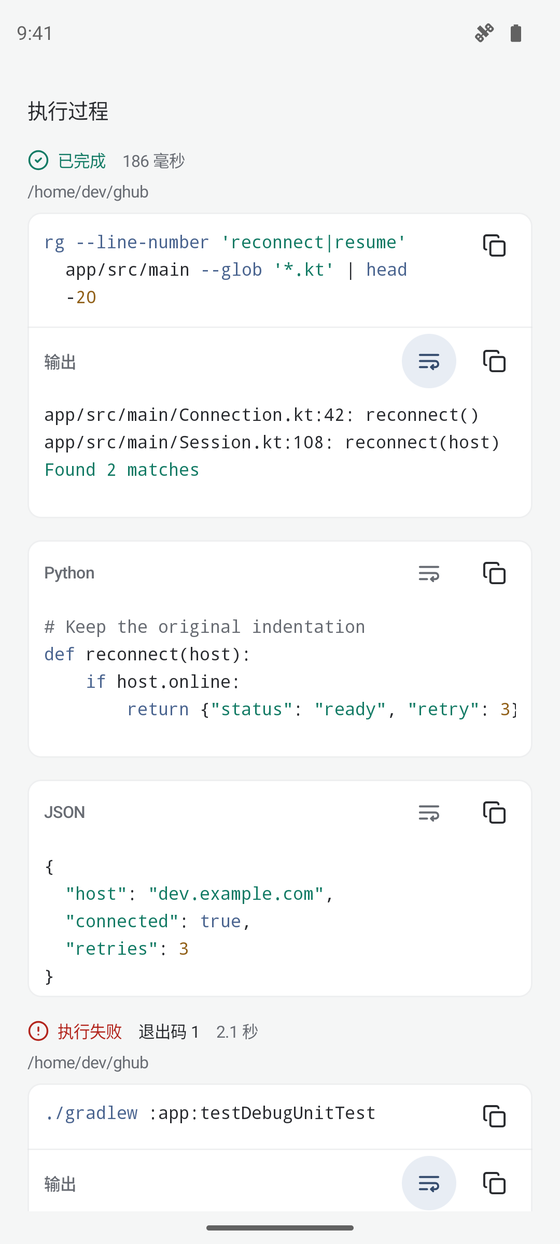
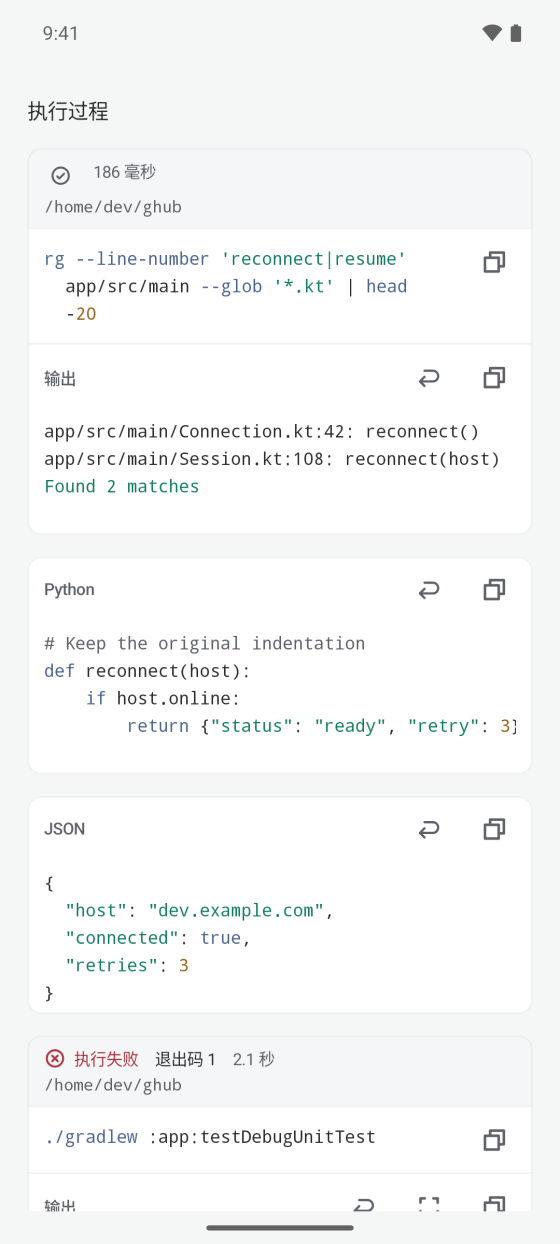
Refresh README features and previews for 0.1.63

diff --git a/README.md b/README.md
@@ -14,27 +14,24 @@ GHub 通过 SSH 连接 Linux 开发机，让你在手机上查看会话、发送
 
 ## 功能
 
-- **会话工作台**：按服务器和项目组织会话，支持新建、归档、历史记录、模型与思考级别选择。
-- **任务与审批**：接收流式回复，查看执行过程、命令输出和文件改动，在手机上回答交互提问、处理命令与文件审批；待处理请求滚出视野时提供查看入口。后台时任务完成、失败、待审批和待回答会发送系统通知，Android 12 及以上可解锁后直接处理通知审批，旧版 Android 打开应用确认。
-- **代码阅读**：Markdown、LaTeX 行内与独立公式、语法高亮、Diff、自动换行和全屏阅读，命令与输出可分别复制。
+- **会话工作台**：按服务器和项目组织会话，支持新建、归档、历史记录、模型与思考级别选择，以及计划模式（`/plan`）、远端会话目标（`/goal`）和沙箱/审批权限设置。
+- **任务与审批**：接收流式回复，查看执行过程、工具调用、命令输出和文件改动，在手机上回答交互提问、处理命令与文件审批；待处理请求滚出视野时提供查看入口。后台时任务完成、失败、待审批和待回答会发送系统通知，Android 12 及以上可解锁后直接处理通知审批，旧版 Android 打开应用确认。
+- **排队、引导与修改**：任务运行中可排队发送消息（支持官方队列与本地队列降级，可查看、编辑与删除），或向活动任务发送实时引导；最新任务确认停止后，可修改原输入并重新发送，保留原始记录和未发送草稿。
+- **代码阅读**：Markdown、LaTeX 行内与独立公式、语法高亮、Diff、自动换行和全屏阅读，命令、输出、代码、表格与公式均可复制。
 - **远程文件**：通过 SFTP 浏览、上传、下载、预览图片和编辑文本，保存时检查远端修改。
-- **交互终端**：支持 Vim、tmux、多个终端、组合键、双指缩放和横屏输入。
-- **连接与输入**：多级 SSH 跳板、密钥与密码认证、断线重连、本地草稿和图片附件。
-- **停止后修改**：最新任务确认停止后，可点击用户消息下方的铅笔，在底部输入框修改并重新发送，保留原始记录和未发送草稿。
-- **Android 原生界面**：Kotlin、Jetpack Compose、Material 3，支持中文、English 和深浅色主题。
+- **交互终端**：支持 Vim、tmux、多个终端、组合键与修饰键锁定、双指缩放和横屏输入。
+- **连接与输入**：多级 SSH 跳板、密钥与密码认证、断线重连与后台保持、本地草稿，以及图片、拍照和文件附件。
+- **Android 原生界面**：Kotlin、Jetpack Compose、Material 3，支持中文、English、深浅色主题和本地存储占用管理。
 
 ## 界面预览
 
 <p>
-  <img src="docs/images/code.png" alt="浅色主题下的紧凑命令块、输出与代码换行开关" width="280" />
-  <img src="docs/images/terminal.png" alt="深色主题下的交互终端与 ← ↑ ↓ → 方向键" width="280" />
+  <img src="docs/images/chat.png" alt="浅色主题下的会话对话、执行摘要、文件改动与底部输入框" width="260" />
+  <img src="docs/images/code.png" alt="浅色主题下的紧凑命令块、输出与代码换行开关" width="260" />
+  <img src="docs/images/terminal.png" alt="深色主题下的交互终端与 ← ↑ ↓ → 方向键" width="260" />
 </p>
 
-截图来自 v0.1.42 的离线组件预览，使用示例内容。
-
-<img src="docs/images/edit-input.png" alt="停止后修改输入：中英文均复用底部输入框和圆形发送箭头" width="720" />
-
-停止后编辑输入的中英文组件预览（v0.1.44），使用示例内容。
+截图来自 v0.1.63 的离线组件预览，使用示例内容。
 
 ## 快速开始
 

diff --git a/docs/images/README.md b/docs/images/README.md
@@ -1,9 +1,10 @@
 # 文档截图
 
-README 的截图来自 v0.1.42 的 Debug 离线预览，使用真实组件和示例内容。采集环境为 Android 15 / API 35、1080 × 2400、420 dpi、中文界面、默认字体倍率；保留完整屏幕比例，并缩小至 560px 宽：
+README 的截图来自 v0.1.63 的 Debug 离线预览，使用真实组件和示例内容。采集环境为 Android 15 / API 35、1080 × 2400、420 dpi、中文界面、默认字体倍率；保留完整屏幕比例，并缩小至 560px 宽：
 
 | 文件 | 预览参数 |
 |---|---|
+| `chat.png` | `--es screen chat --es theme light` |
 | `code.png` | `--es screen code --es theme light` |
 | `terminal.png` | `--es screen terminal --es theme dark` |
 
